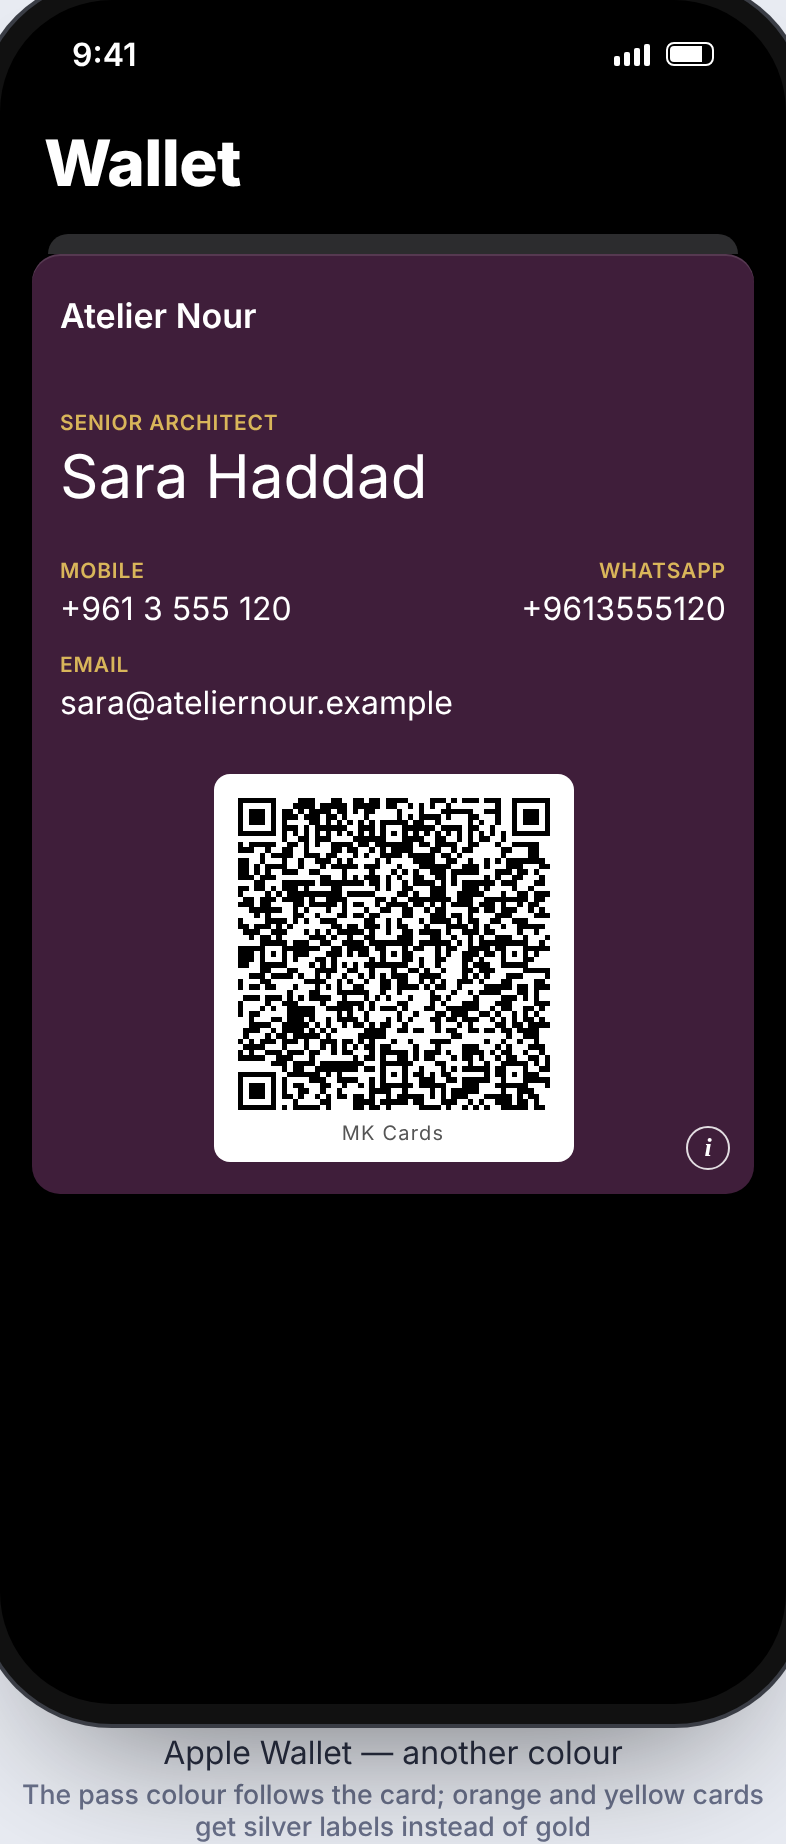
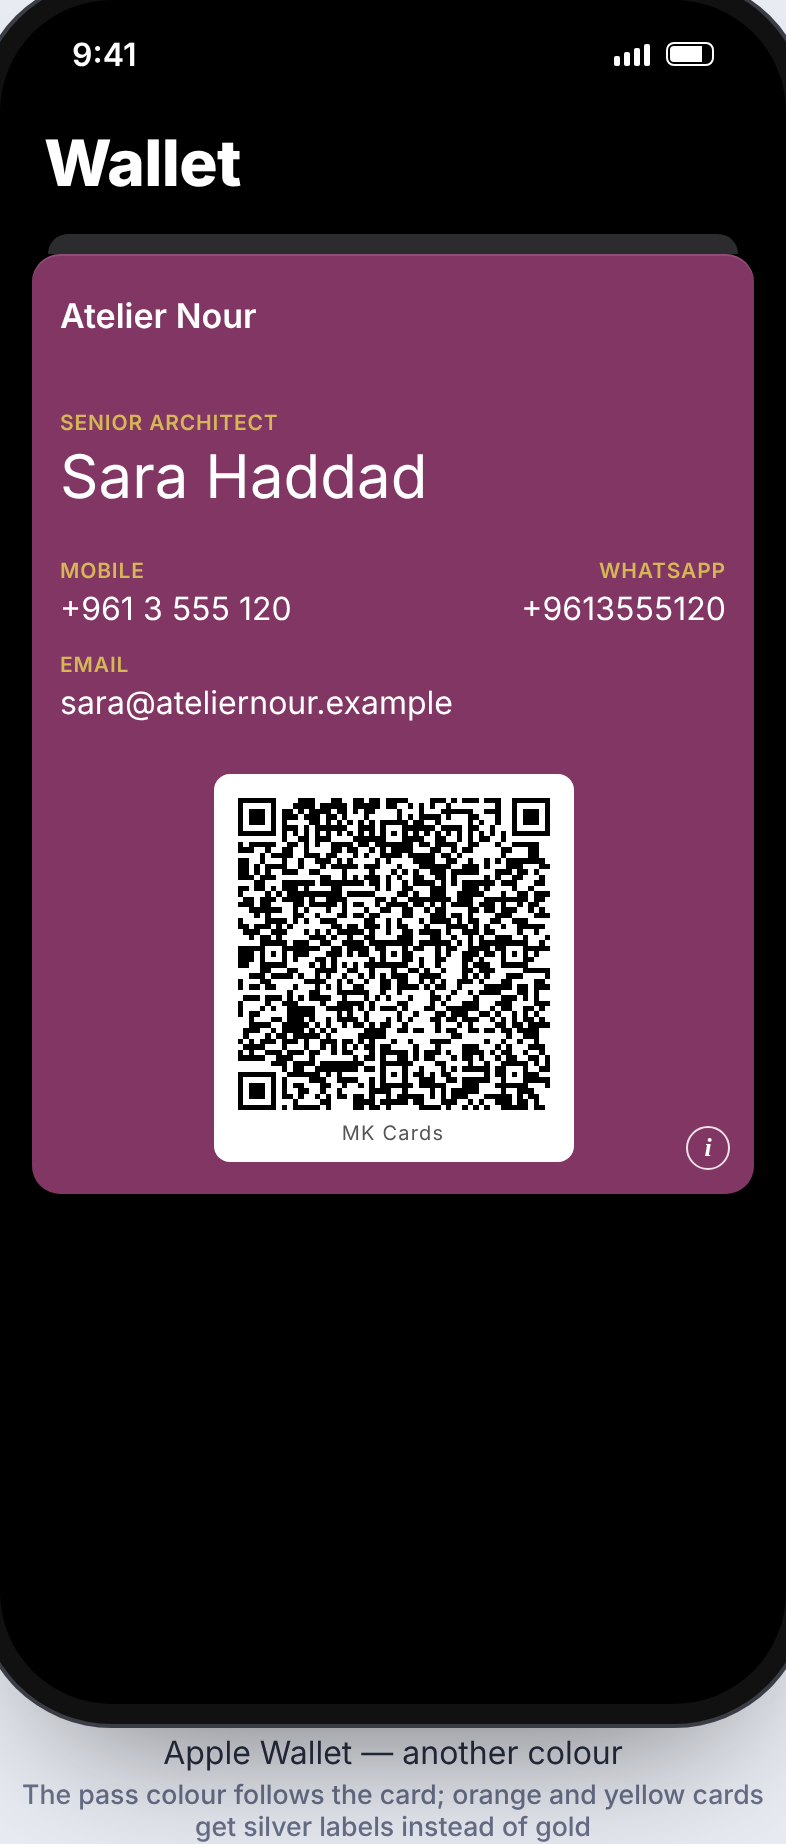
Card page matches the reference design
- New Midnight colour (default for new cards) tuned to the reference navy
- Lighter, frosted glass with a misty glow in the top-left corner
- Solid icons, gold gradient ring around the photo, richer gold Save button
- Named colours in the editor; page background fills long pages on iPhone
- Wallet pass colours follow the same rules

Claude-Session: https://claude.ai/code/session_01CiqwjSqqycpt33yuy6eG8J

diff --git a/web/public/app.js b/web/public/app.js
@@ -1,7 +1,7 @@
 // MK Cards — single-page app. No build step: plain ES modules.
 import { ART_VERSION, cardTheme, drawCardArt, hexRgb, mixHex } from './card-art.js';
 
-export const APP_VERSION = '1.8.0'; // keep in step with VERSION in sw.js
+export const APP_VERSION = '1.9.0'; // keep in step with VERSION in sw.js
 
 const app = document.getElementById('app');
 const tabbar = document.getElementById('tabbar');
@@ -49,6 +49,24 @@ const ICONS = {
   trash: '<path d="M4 7h16M9 7V4h6v3M6 7l1 13h10l1-13"/>',
   x: '<path d="M6 6l12 12M18 6L6 18"/>',
 };
+
+// Solid icons for the card itself (as in the reference design); line icons everywhere else.
+const SOLID = {
+  phone: '<path d="M6.6 10.8a15.1 15.1 0 0 0 6.6 6.6l2.2-2.2c.3-.3.7-.4 1-.2 1.1.4 2.3.6 3.6.6.6 0 1 .4 1 1V20c0 .6-.4 1-1 1A17 17 0 0 1 3 4c0-.6.4-1 1-1h3.5c.6 0 1 .4 1 1 0 1.2.2 2.4.6 3.6.1.4 0 .7-.2 1z"/>',
+  mail: '<path d="M20 4H4a2 2 0 0 0-2 2v12c0 1.1.9 2 2 2h16a2 2 0 0 0 2-2V6a2 2 0 0 0-2-2zm0 4-8 5-8-5V6l8 5 8-5z"/>',
+  pin: '<path d="M12 2a7 7 0 0 0-7 7c0 5.3 7 13 7 13s7-7.7 7-13a7 7 0 0 0-7-7zm0 9.5a2.5 2.5 0 1 1 0-5 2.5 2.5 0 0 1 0 5z"/>',
+  save: '<path d="M15 12a4 4 0 1 0 0-8 4 4 0 0 0 0 8zm-9-2V7H4v3H1v2h3v3h2v-3h3v-2zm9 4c-2.7 0-8 1.3-8 4v2h16v-2c0-2.7-5.3-4-8-4z"/>',
+  whatsapp: '<path d="M12 2.2A9.8 9.8 0 0 0 3.6 17l-1.4 4.8 5-1.3A9.8 9.8 0 1 0 12 2.2zm5.7 13.8c-.2.7-1.4 1.300-2 1.400-.5.1-1.200.1-1.900-.1a17 17 0 0 1-1.700-.6c-3-1.300-4.900-4.300-5.100-4.500-.1-.2-1.200-1.600-1.200-3.100s.8-2.200 1.100-2.500c.3-.3.6-.4.8-.4h.6c.2 0 .4 0 .6.5l.9 2.100c.1.200.1.400 0 .5l-.3.5-.4.5c-.1.100-.3.300-.1.600.2.300.8 1.300 1.700 2.100 1.100 1 2.100 1.300 2.400 1.500.3.100.5.100.7-.1l.9-1.100c.2-.300.400-.200.700-.1l2 1c.3.1.5.2.5.3.1.2.1.700-.1 1.400z"/>',
+  globe: '<path d="M12 2a10 10 0 1 0 0 20 10 10 0 0 0 0-20zm6.9 6h-2.9a15.700 15.700 0 0 0-1.400-3.600A8 8 0 0 1 18.900 8zM12 4c.8 1.200 1.500 2.500 1.900 4h-3.800c.4-1.500 1.100-2.800 1.900-4zM4.300 14a8.200 8.200 0 0 1 0-4h3.400a16.500 16.500 0 0 0 0 4H4.300zm.8 2h2.900c.3 1.300.8 2.500 1.400 3.600A8 8 0 0 1 5.100 16zM8 8H5.100a8 8 0 0 1 4.300-3.600C8.800 5.500 8.400 6.700 8 8zm4 12c-.8-1.200-1.500-2.500-1.900-4h3.800c-.4 1.500-1.100 2.800-1.900 4zm2.300-6H9.700a14.700 14.700 0 0 1 0-4h4.600a14.700 14.700 0 0 1 0 4zm.3 5.600c.6-1.100 1.100-2.300 1.400-3.600h2.900a8 8 0 0 1-4.300 3.600zm1.800-5.600a16.500 16.500 0 0 0 0-4h3.400a8.200 8.200 0 0 1 0 4h-3.400z"/>',
+  link: '<path d="M3.900 12a3.100 3.100 0 0 1 3.100-3.100h4V7H7a5 5 0 0 0 0 10h4v-1.900H7A3.100 3.100 0 0 1 3.900 12zM8 13h8v-2H8v2zm9-6h-4v1.900h4a3.100 3.100 0 0 1 0 6.200h-4V17h4a5 5 0 0 0 0-10z"/>',
+};
+
+function solidIcon(name) {
+  if (!SOLID[name]) return icon(name);
+  const span = document.createElement('span');
+  span.innerHTML = `<svg viewBox="0 0 24 24" fill="currentColor" aria-hidden="true">${SOLID[name]}</svg>`;
+  return span.firstChild;
+}
 
 function icon(name) {
   const span = document.createElement('span');
@@ -103,7 +121,12 @@ async function api(path, { method = 'GET', body } = {}) {
 
 // ---------- shared pieces ----------
 
-const ACCENTS = ['#5b8cff', '#7a5cff', '#e0559a', '#f0683c', '#e3a008', '#1fa97a', '#149fc4', '#3c4658'];
+const COLOURS = [
+  ['#2a5ba8', 'Midnight'], ['#5b8cff', 'Royal blue'], ['#7a5cff', 'Violet'], ['#e0559a', 'Rose'], ['#b8344f', 'Burgundy'],
+  ['#f0683c', 'Copper'], ['#e3a008', 'Amber'], ['#1fa97a', 'Emerald'], ['#149fc4', 'Teal'], ['#3c4658', 'Graphite'],
+];
+const ACCENTS = COLOURS.map(([value]) => value);
+const colourName = (value) => (COLOURS.find(([v]) => v === value) || [null, 'Custom'])[1];
 const LINK_TYPES = {
   website: 'Website', linkedin: 'LinkedIn', x: 'X', instagram: 'Instagram', facebook: 'Facebook',
   youtube: 'YouTube', tiktok: 'TikTok', github: 'GitHub', whatsapp: 'WhatsApp', telegram: 'Telegram',
@@ -130,10 +153,10 @@ function themeVars(card) {
   const t = cardTheme(card);
   const rgba = (c, alpha) => `rgba(${hexRgb(c).join(',')},${alpha})`;
   return [
-    `--deep:${t.deep}`, `--deep-top:${mixHex(t.deep, '#ffffff', 0.08)}`,
-    `--glow:${rgba(t.glow, 0.5)}`, `--tint:${rgba(t.a, 0.28)}`,
-    `--hi:${t.hi}`, `--hi-top:${mixHex(t.hi, '#ffffff', 0.25)}`, `--hi-bottom:${mixHex(t.hi, '#000000', 0.12)}`,
-    `--hi-glow:${rgba(t.hi, 0.5)}`, `--hi-ink:${mixHex(t.hi, '#000000', 0.82)}`,
+    `--deep:${t.deep}`, `--page:${t.page}`, `--glass-top:${t.glassTop}`, `--glass-bottom:${t.glassBottom}`,
+    `--haze:${rgba(t.haze, 0.74)}`, `--page-haze:${rgba(t.haze, 0.34)}`, `--tint:${rgba(t.a, 0.22)}`,
+    `--hi:${t.hi}`, `--hi-light:${mixHex(t.hi, '#ffffff', 0.45)}`, `--hi-top:${mixHex(t.hi, '#ffffff', 0.1)}`,
+    `--hi-bottom:${mixHex(t.hi, '#000000', 0.1)}`, `--hi-glow:${rgba(t.hi, 0.5)}`, `--hi-ink:${mixHex(t.hi, '#000000', 0.84)}`,
   ].join(';');
 }
 
@@ -169,7 +192,7 @@ function renderCard(card, { compact = false, actions = null } = {}) {
     class: `vc-action${extra.primary ? ' primary' : ''}`, href: live ? href : null, type: href ? null : 'button',
     target: href && /^https?:/.test(href) ? '_blank' : null, rel: 'noopener', tabindex: live ? null : '-1',
     onclick: extra.onclick || null,
-  }, icon(iconName), h('span', {}, label));
+  }, solidIcon(iconName), h('span', {}, label));
   const quick = [
     tile('save', 'Save contact', null, { primary: true, onclick: live ? actions.save : null }),
     card.whatsapp && tile('whatsapp', 'WhatsApp', waHref(card.whatsapp)),
@@ -190,7 +213,7 @@ function renderCard(card, { compact = false, actions = null } = {}) {
 
   const row = (iconName, label, value, href) => h(href ? 'a' : 'div', {
     class: 'vc-row', href, target: href && /^https?:/.test(href) ? '_blank' : null, rel: 'noopener',
-  }, h('span', { class: 'vc-ico' }, icon(iconName)),
+  }, h('span', { class: 'vc-ico' }, solidIcon(iconName)),
   h('span', { class: 'grow' }, h('small', {}, label), h('bdi', { class: value.length > 24 ? 'long' : null }, value)),
   href ? h('span', { class: 'vc-chev' }, icon('chevron')) : null);
   const groups = [
@@ -625,7 +648,7 @@ function editorScreen(id) {
     label: '', name: first ? first.name : '', title: '', company: first ? first.company : '', department: '', bio: '', whatsapp: '',
     phones: [{ label: 'mobile', value: '' }],
     emails: [{ label: 'work', value: first ? '' : me.user.email }],
-    website: '', address: '', photo: '', accent: ACCENTS[me.cards.length % ACCENTS.length], style: 'aurora', links: [],
+    website: '', address: '', photo: '', accent: first ? first.accent : ACCENTS[0], style: 'aurora', links: [],
   };
   card.phones = card.phones || [];
   card.whatsapp = card.whatsapp || '';
@@ -710,9 +733,13 @@ function editorScreen(id) {
 
   // Appearance
   const swatches = h('div', { class: 'swatches' });
-  const drawSwatches = () => swatches.replaceChildren(...ACCENTS.map((color) =>
-    h('button', { class: 'swatch', type: 'button', style: `background:${color}`, 'aria-label': `Colour ${color}`,
-      'aria-pressed': String(card.accent === color), onclick: () => { card.accent = color; drawSwatches(); refresh(); } })));
+  const colourLabel = h('p', { class: 'muted small' });
+  const drawSwatches = () => {
+    swatches.replaceChildren(...COLOURS.map(([color, name]) =>
+      h('button', { class: 'swatch', type: 'button', style: `background:${color}`, 'aria-label': name, title: name,
+        'aria-pressed': String(card.accent === color), onclick: () => { card.accent = color; drawSwatches(); refresh(); } })));
+    colourLabel.textContent = `Colour: ${colourName(card.accent)}`;
+  };
   drawSwatches();
   const styles = h('div', { class: 'segmented' });
   const drawStyles = () => styles.replaceChildren(...[['aurora', 'Aurora'], ['solid', 'Solid'], ['mono', 'Graphite']].map(([value, label]) =>
@@ -818,7 +845,7 @@ function editorScreen(id) {
         card.links.push({ type: 'linkedin', label: '', url: '' });
         drawLinks();
       } }, icon('plus'), 'Add a link')),
-    h('section', { class: 'glass panel stack' }, h('h2', {}, 'Look'), swatches, styles),
+    h('section', { class: 'glass panel stack' }, h('h2', {}, 'Look'), swatches, colourLabel, styles),
     h('section', { class: 'glass panel stack' }, h('h2', {}, 'Card address'), addressBox,
       addressNote && h('p', { class: 'muted small' }, addressNote)),
     errorLine,
@@ -937,6 +964,8 @@ function publicScreen(username, slug = '') {
     // The page takes on the card's colours, like the reference design: a deep backdrop with a soft glow.
     document.body.classList.add('card-page');
     document.body.setAttribute('style', themeVars(card));
+    // Paint the whole page, however long, not just the first screen (iPhones ignore fixed backgrounds).
+    document.documentElement.style.background = cardTheme(card).page;
     const saveContact = async () => {
       if (!native) { location.href = `/api/public/vcard?${query}`; return; }
       try {
@@ -1122,6 +1151,7 @@ function render() {
   const path = location.pathname.replace(/\/+$/, '') || '/';
   document.body.classList.remove('card-page');
   document.body.removeAttribute('style');
+  document.documentElement.style.background = '';
   document.title = 'MK Cards';
   let screen = missingScreen('That page does not exist.', 'Page not found');
   let tab = null;

diff --git a/web/public/styles.css b/web/public/styles.css
@@ -152,21 +152,26 @@ button, input, select, textarea { font: inherit; color: inherit; }
 .vc { display: grid; gap: 14px; }
 .vc-glass {
   position: relative; border-radius: 30px; overflow: hidden;
+  /* Lighter at the top with a misty glow in the top-left corner, like frosted glass catching the light. */
   background:
-    radial-gradient(120% 70% at 0% 0%, var(--glow) 0%, transparent 62%),
+    radial-gradient(140% 85% at 0% 0%, var(--haze) 0%, transparent 55%),
     radial-gradient(90% 60% at 100% 100%, var(--tint) 0%, transparent 70%),
-    linear-gradient(180deg, var(--deep-top), var(--deep));
-  border: 1px solid rgba(255, 255, 255, 0.16);
-  box-shadow: inset 0 1px 0 rgba(255, 255, 255, 0.26), 0 30px 60px -30px rgba(0, 0, 0, 0.65);
+    linear-gradient(180deg, var(--glass-top), var(--glass-bottom));
+  border: 1px solid rgba(255, 255, 255, 0.22);
+  box-shadow: inset 0 1px 0 rgba(255, 255, 255, 0.34), inset 0 0 0 1px rgba(255, 255, 255, 0.04), 0 30px 60px -30px rgba(0, 0, 0, 0.7);
 }
-.vc.solid .vc-glass, .vc-mini.solid { background: linear-gradient(180deg, var(--deep-top), var(--deep)); }
+.vc.solid .vc-glass, .vc-mini.solid { background: linear-gradient(180deg, var(--glass-top), var(--glass-bottom)); }
 
 .vc-hero { padding: 28px 20px 20px; text-align: center; }
 .vc-eyebrow { color: var(--hi); font-size: 12px; font-weight: 650; letter-spacing: 0.28em; text-transform: uppercase; margin-bottom: 18px; overflow-wrap: anywhere; }
 .vc-avatar {
   width: 112px; height: 112px; border-radius: 50%; margin: 0 auto; display: grid; place-items: center; object-fit: cover;
-  background: radial-gradient(circle at 32% 25%, var(--deep-top), var(--deep));
-  box-shadow: 0 0 0 2.5px var(--hi), 0 0 0 8px rgba(255, 255, 255, 0.06), 0 18px 34px -14px rgba(0, 0, 0, 0.75);
+  /* A gold gradient ring around the photo. */
+  border: 3.5px solid transparent;
+  background:
+    radial-gradient(circle at 32% 25%, var(--glass-top), var(--deep)) padding-box,
+    linear-gradient(140deg, var(--hi-light), var(--hi) 45%, var(--hi-bottom) 70%, var(--hi-light)) border-box;
+  box-shadow: 0 0 0 8px rgba(255, 255, 255, 0.07), 0 18px 34px -14px rgba(0, 0, 0, 0.75);
   font-family: var(--serif); font-size: 44px; font-weight: 700; color: #fff; letter-spacing: 0.01em;
 }
 .vc-name { font-family: var(--serif); font-size: 32px; line-height: 1.15; font-weight: 700; margin-top: 22px; letter-spacing: -0.005em; text-transform: none; color: #fff; overflow-wrap: anywhere; }
@@ -183,7 +188,7 @@ button, input, select, textarea { font: inherit; color: inherit; }
   text-decoration: none; cursor: pointer; -webkit-tap-highlight-color: transparent; transition: transform 0.15s ease;
 }
 .vc-action:active { transform: scale(0.96); }
-.vc-action svg { width: 24px; height: 24px; }
+.vc-action svg { width: 25px; height: 25px; }
 .vc-action.primary {
   background: linear-gradient(180deg, var(--hi-top), var(--hi-bottom)); color: var(--hi-ink); border-color: transparent;
   box-shadow: inset 0 1px 0 rgba(255, 255, 255, 0.5), 0 12px 24px -12px var(--hi-glow);
@@ -197,7 +202,7 @@ button, input, select, textarea { font: inherit; color: inherit; }
   width: 44px; height: 44px; border-radius: 14px; display: grid; place-items: center; flex: none;
   background: rgba(255, 255, 255, 0.09); border: 1px solid rgba(255, 255, 255, 0.12); color: var(--hi);
 }
-.vc-ico svg { width: 21px; height: 21px; }
+.vc-ico svg { width: 22px; height: 22px; }
 .vc-row small { display: block; font-size: 13px; color: rgba(255, 255, 255, 0.62); }
 .vc-row bdi { display: block; font-size: 17px; font-weight: 560; overflow-wrap: anywhere; }
 .vc-row bdi.long { font-size: 15px; }
@@ -217,11 +222,11 @@ button, input, select, textarea { font: inherit; color: inherit; }
 /* The small version on the Cards and Share screens. */
 .vc-mini {
   display: flex; align-items: center; gap: 14px; padding: 16px; border-radius: 24px;
-  background: radial-gradient(120% 90% at 0% 0%, var(--glow) 0%, transparent 62%), linear-gradient(180deg, var(--deep-top), var(--deep));
+  background: radial-gradient(120% 90% at 0% 0%, var(--haze) 0%, transparent 60%), linear-gradient(180deg, var(--glass-top), var(--glass-bottom));
   border: 1px solid rgba(255, 255, 255, 0.16);
   box-shadow: inset 0 1px 0 rgba(255, 255, 255, 0.24), 0 18px 40px -22px rgba(0, 0, 0, 0.6);
 }
-.vc-avatar.small { width: 58px; height: 58px; margin: 0; flex: none; font-size: 22px; box-shadow: 0 0 0 2px var(--hi), 0 8px 18px -10px rgba(0, 0, 0, 0.7); }
+.vc-avatar.small { width: 58px; height: 58px; margin: 0; flex: none; font-size: 22px; border-width: 2.5px; box-shadow: 0 8px 18px -10px rgba(0, 0, 0, 0.7); }
 .vc-mini .vc-name { font-size: 20px; margin: 0; }
 .vc-mini .vc-title { font-size: 14px; margin-top: 3px; color: rgba(255, 255, 255, 0.75); }
 
@@ -229,10 +234,11 @@ button, input, select, textarea { font: inherit; color: inherit; }
 body.card-page {
   color: #fff;
   background:
-    radial-gradient(90vmax 70vmax at 0% 0%, var(--glow), transparent 60%),
-    radial-gradient(80vmax 70vmax at 100% 65%, var(--tint), transparent 65%),
-    var(--deep);
-  background-attachment: fixed;
+    radial-gradient(90vmax 60vmax at 0% 0%, var(--page-haze), transparent 60%),
+    radial-gradient(80vmax 70vmax at 100% 70%, var(--tint), transparent 65%),
+    linear-gradient(180deg, var(--deep) 0, var(--page) 100vh);
+  background-repeat: no-repeat;
+  background-color: var(--page);
 }
 body.card-page .backdrop { display: none; }
 body.card-page .topbar h1 { color: #fff; }

diff --git a/web/public/card-art.js b/web/public/card-art.js
@@ -23,16 +23,23 @@ function hueOf(c) {
   return (h * 60 + 360) % 360;
 }
 
-/** A deep shade of the chosen colour, a soft glow of it, and a fine highlight: gold, or silver when the chosen
- * colour is itself warm. The server uses the same rules for the wallet passes. */
+/** The card's colours, tuned so the Midnight colour reproduces the reference design: a deep navy page, glass
+ * panels that are lighter at the top with a misty glow in the top-left corner, and gold details (silver when the
+ * chosen colour is itself warm). The server uses the same rules for the wallet passes. */
 export function cardTheme(card) {
-  const a = /^#[0-9a-f]{6}$/i.test(card.accent || '') ? card.accent : '#5b8cff';
+  const a = /^#[0-9a-f]{6}$/i.test(card.accent || '') ? card.accent : '#2a5ba8';
+  const mono = card.style === 'mono';
+  const deep = mono ? '#10141c' : mixHex(a, '#050d1c', card.style === 'solid' ? 0.6 : 0.72);
   const hue = hueOf(a);
   return {
     a,
-    deep: card.style === 'mono' ? '#12151d' : mixHex(a, '#060a18', card.style === 'solid' ? 0.6 : 0.74),
-    glow: card.style === 'mono' ? '#465066' : mixHex(a, '#ffffff', 0.1),
-    hi: hue >= 18 && hue <= 70 ? '#efeae0' : '#d9b65a',
+    deep,
+    page: mixHex(deep, '#000000', 0.12),
+    glassTop: mixHex(deep, mono ? '#5a6478' : a, 0.58),
+    glassBottom: mixHex(deep, mono ? '#3a4254' : a, 0.33),
+    haze: mono ? '#b9c0cc' : mixHex(a, '#b9c4c0', 0.8),
+    glow: mono ? '#465066' : mixHex(a, '#b9c4c0', 0.55),
+    hi: hue >= 18 && hue <= 70 ? '#efeae0' : '#d5b757',
   };
 }
 

diff --git a/web/src/wallet.js b/web/src/wallet.js
@@ -54,10 +54,12 @@ function hueOf(c) {
 /** The pass colours, the same rules as the card page: a deep shade of the card's colour, white text, and a fine
  * highlight (gold, or silver when the card's colour is itself warm) for the small labels. */
 export function passColours(card) {
-  const accent = /^#[0-9a-f]{6}$/i.test(card.accent || '') ? card.accent : '#5b8cff';
-  const bg = card.style === 'mono' ? hex('#12151d') : mixRgb(accent, '#060a18', card.style === 'solid' ? 0.6 : 0.74);
+  const accent = /^#[0-9a-f]{6}$/i.test(card.accent || '') ? card.accent : '#2a5ba8';
+  // The pass background is the card's mid-tone glass colour, so it reads as the same object as the card page.
+  const deep = card.style === 'mono' ? hex('#10141c') : mixRgb(accent, '#050d1c', card.style === 'solid' ? 0.6 : 0.72);
+  const bg = card.style === 'mono' ? mixRgb(toHex(deep), '#5a6478', 0.4) : mixRgb(toHex(deep), accent, 0.4);
   const hue = hueOf(accent);
-  const label = hue >= 18 && hue <= 70 ? hex('#efeae0') : hex('#d9b65a');
+  const label = hue >= 18 && hue <= 70 ? hex('#efeae0') : hex('#d5b757');
   return { background: bg, label, hex: toHex(bg) };
 }
 

diff --git a/web/public/sw.js b/web/public/sw.js
@@ -1,6 +1,6 @@
 // MK Cards service worker. Bump VERSION on every release (keep in step with APP_VERSION in app.js):
 // a changed file is what makes browsers show the "new version is ready" notice.
-const VERSION = '1.8.0';
+const VERSION = '1.9.0';
 const CACHE = `mk-cards-${VERSION}`;
 const SHELL = ['/', '/styles.css', '/app.js', '/card-art.js', '/vendor/qrcode.js', '/manifest.webmanifest', '/icons/icon.svg', '/icons/icon-192.png'];
 
